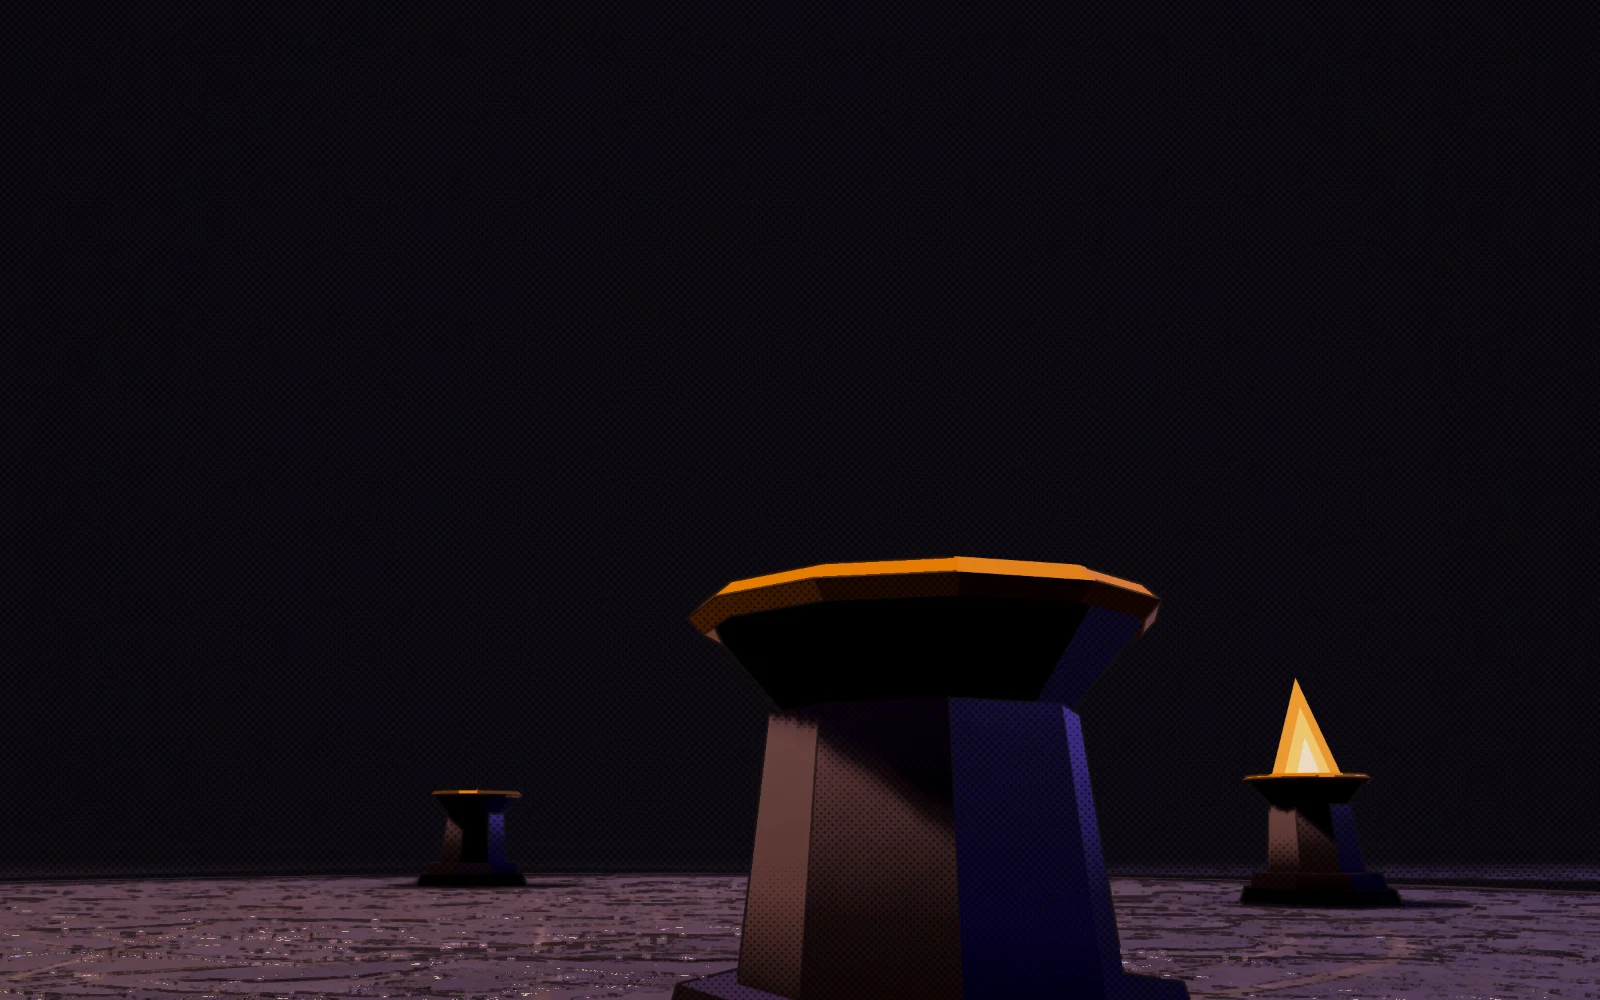
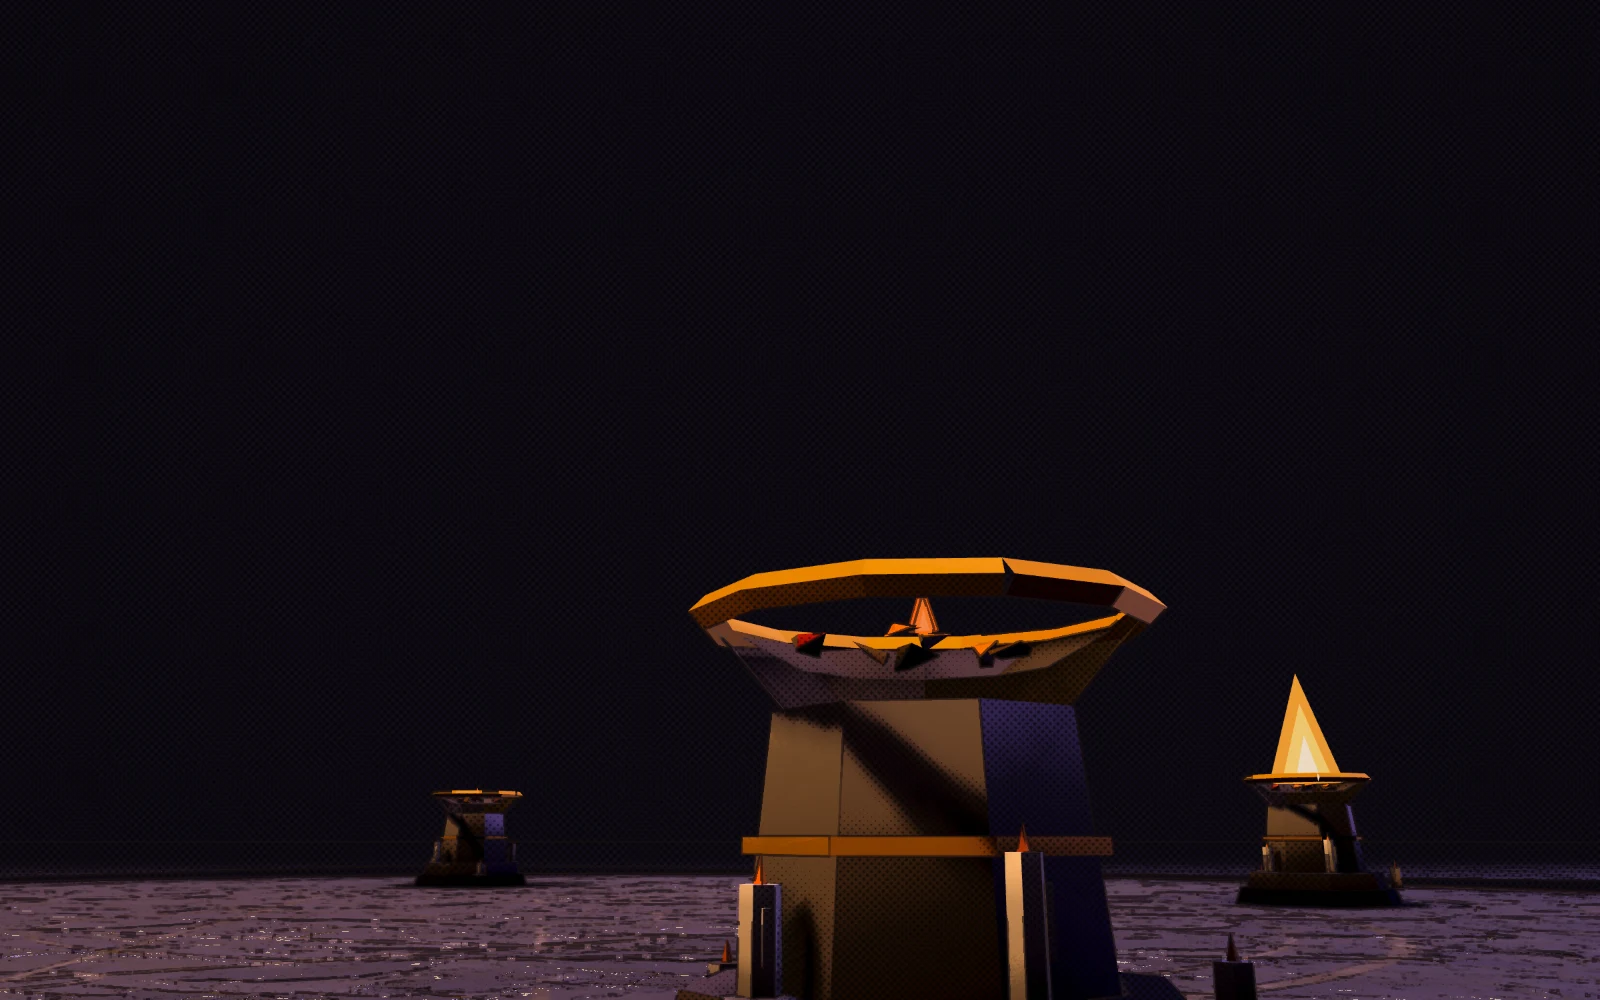
开场故事：p4 / p7a–d 按新的首领模型重烘；烘焙两次逐字节一样
线上的 p4 / p7 是在首领包不加载的情况下烘的，画的是原来的程序化首领。现在：
- 熄烛者（p4）、熔渣巨像 / 霜织者 / 雷霆监察者 / 烬渊之主（p7a–d）都是脚本生成的新模型，带 T35 的明暗；
  姿势：巨像举锤、霜织者举手、监察者张开双手（眼不被挡住）、烬渊之主张翼持剑，熄烛者照旧举灯
- 烘焙可复现：首领格的摆拍和随机序列重新开始在同一次同步执行里，摆完把画面时钟定住（新的 W.debugTime，只给工具用）；
  同一份代码连烘三次，十个 webp 逐字节一样
- p7 页刀上那团火的位置跟着新图改（主角现在的握刀姿势和当初烘的时候不一样）

diff --git a/js/world.js b/js/world.js
@@ -19929,6 +19929,12 @@
     if (!ent.echo) bossLook(ent);
     if (W.onBossSwap) W.onBossSwap(ent);
   }
+  // 工具用（tools/story 的烘焙）：把画面时钟（着色器的 uTime：发光圈的呼吸、水面、火光闪烁）定到给定值。
+  // 页面刚打开、模拟还没停住之前跑过的实时帧数每次不一样，不定住的话两次烘出来的发光强度不同。游戏本身不调用
+  W.debugTime = function (t) {
+    wtime = t;
+    uTime.value = t;
+  };
   W.debugBossPack = function (on) {
     bossPackOff = !on;
     if (on) for (const k in BOSS_SPEC) if (bossData(k)) bossQueueSwap(k);

diff --git a/js/story.js b/js/story.js
@@ -66,7 +66,7 @@
       ],
       push: [1.0, 1.04], drift: [1, 0], sfx: 'unique',
       fx: { kind: 'rise', n: 30, area: [0.02, 0.98, 0.55, 0.99] },
-      glow: [{ x: 0.399, y: 0.8331, r: 0.06, a: 0.3, core: 1, d: 0.6, f: 3, ramp: 2.5 }],
+      glow: [{ x: 0.3491, y: 0.9028, r: 0.06, a: 0.3, core: 1, d: 0.6, f: 3, ramp: 2.5 }], // 刀上的火：panels.mjs p7d 的 points.blade（0.3491, 0.8055）换成整页坐标（下半格：y = 0.5 + 0.5 × y）
     },
     {
       // 最后一格是游戏自己的开局镜头：推到 1:1 时和真正的游戏画面对上，然后淡出进游戏

diff --git a/tools/story/README.md b/tools/story/README.md
@@ -26,6 +26,9 @@ cc-slot pool <名字> shots -- node tools/story/bake.mjs --panels p6,p8,p5,p2a,p
 要是镜头 / 站位动了，`bake.mjs` 打印的 `points` 和 `js/story.js` 里对应的 `glow` / `area` 要一起改。
 
 ## 注意
+- 有首领的格（`bosses: [...]`，p4 / p7a–d）先 `need` 首领包、建好脚本生成的新模型（缺了就报错），摆拍和「`Math.random` 从按格子名定的种子重新开始」在同一次同步执行里；
+  摆完把画面时钟定到 10（`W.debugTime`：发光圈的呼吸、水面、火光闪烁的相位和打开页面花了多久无关）。这样同一份代码烘两次，webp 逐字节一样
+  （T35 起；在这之前首领格拍到的是程序化的旧首领，两次烘出来的发光强度和姿势也不一样）。新模型没有 taunt / call / howl，姿势退到各自的蓄力定格。
 - 布局种子固定（`G.debug.zoneSeed`），否则同一个区每次的布局都不一样。
 - 游戏镜头的近裁面是 2 米，角色的蒙皮网格按绑定姿态做视锥剔除：`ink.js` 拍近景时把近裁面改成 0.1、关掉角色的剔除。
 - 特效面片是按游戏镜头的朝向摆的：渲染前用拍摄镜头的朝向跑一次零时长的 `W.update(0)`。
